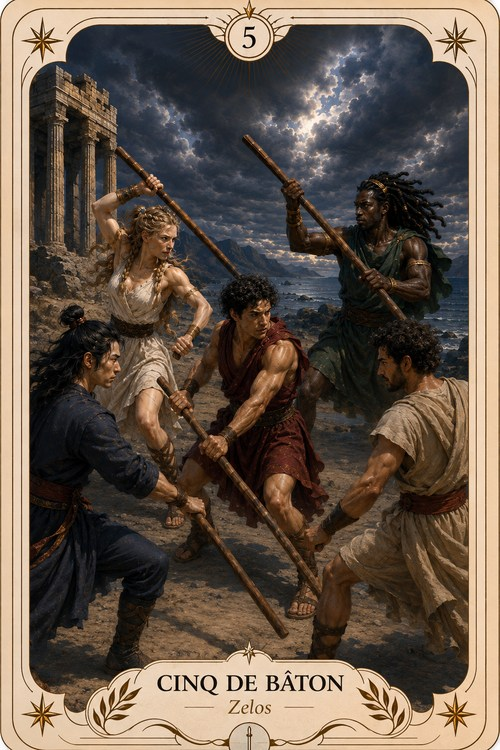
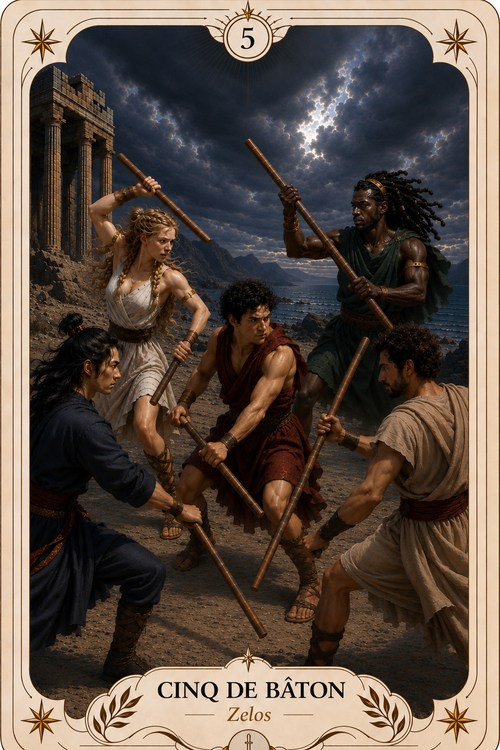
Remplace le 5 de Bâtons par une nouvelle version de l'illustration
Nouvelle version fournie par l'utilisatrice (Zelos) — remplace la
précédente, même nom de fichier, même format 500x750, déjà
correctement au singulier ("CINQ DE BÂTON") sur le bandeau.

Aucun changement de CARD_IMAGES ni d'aucune autre donnée dans app.js.

service-worker.js : cache delphes-v104 -> delphes-v105.

Claude-Session: https://claude.ai/code/session_01U3aLcH1JucbLstxQ1Hhqve

diff --git a/service-worker.js b/service-worker.js
@@ -1,4 +1,4 @@
-const CACHE="delphes-v104";
+const CACHE="delphes-v105";
 const ASSETS=["./","./index.html","./styles.css","./app.js","./manifest.json","./icon.svg","./politique-confidentialite.html"];
 
 self.addEventListener("install",event=>{
